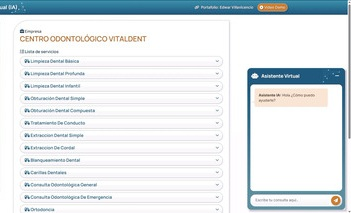
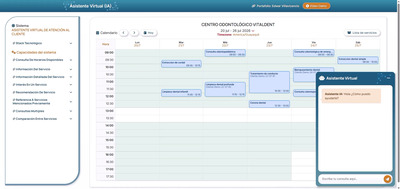
last

diff --git a/src/app/components/front/shared/last-works/last-works.component.html b/src/app/components/front/shared/last-works/last-works.component.html
@@ -12,7 +12,7 @@
       <div class="card cardWork mb-2">
         <div class="card-body p-0 relative">
           <img [src]="work.images[0] | imgSm" alt="" />
-          <div *ngIf="work?.video_url" (click)="openVideoModal(work.video_url)" class="video-icon-overlay">
+          <div *ngIf="work?.video_url" (click)="openVideoModal(work.video_url, work)" class="video-icon-overlay">
             <div class="video-icon-trigger">
               <div class="video-icon-bg"></div>
               <i class="fab fa-youtube video-icon"></i>
@@ -87,7 +87,7 @@
         <div class="carousel-item carousel-item-modal" *ngFor="let img of selected.images; let index = index"
           [class.active]="index == 0">
           <img class="d-block w-100" [src]="img" alt="" />
-          <div *ngIf="selected?.video_url && index == 0" (click)="openVideoModal(selected.video_url)"
+          <div *ngIf="selected?.video_url && index == 0" (click)="openVideoModal(selected.video_url, selected)"
             class="video-icon-overlay">
             <div class="video-icon-trigger">
               <div class="video-icon-bg"></div>
@@ -176,9 +176,29 @@
 <ng-template #modalVideo let-c="close">
   <div class="modal-header">
     <h4 id="modal-video-title" class=" text-gold m-0">Video demo</h4>
-    <button type="button" class="close" aria-label="Close" (click)="c('close')">
-      <span aria-hidden="true">&times;</span>
-    </button>
+    <div class="modal-video-header-actions">
+      <a
+        *ngIf="selected?.link"
+        [href]="selected.link"
+        target="_blank"
+        rel="noopener noreferrer"
+        class="btn btn-gold btn-sm"
+      >
+        Sitio
+      </a>
+      <a
+        *ngIf="selected?.link_demo"
+        [href]="selected.link_demo"
+        target="_blank"
+        rel="noopener noreferrer"
+        class="btn btn-gold btn-sm"
+      >
+        Probar demo
+      </a>
+      <button type="button" class="close modal-video-close" aria-label="Close" (click)="c('close')">
+        <span aria-hidden="true">&times;</span>
+      </button>
+    </div>
   </div>
   <div class="modal-body">
     <div class="video-demo-frame" *ngIf="selectedVideoEmbedUrl; else invalidVideo">

diff --git a/src/app/components/front/shared/navbar/navbar.component.css b/src/app/components/front/shared/navbar/navbar.component.css
@@ -102,7 +102,9 @@
 }
 
 .main-sm {
-    margin-top: -20px
+    margin-top: -20px;
+    right: 20px;
+    position: absolute;
 }
 
 .main-sm.navbar2 {
@@ -113,6 +115,7 @@
     .bg-cut {
         clip-path: polygon(0 0, 100% 0, 100% 60%, 0% 100%);
     }
+
     .bg-cut-white {
         clip-path: polygon(0 0, 100% 0, 100% 60%, 0% 100%);
     }
@@ -123,23 +126,29 @@
         padding: 5px 8px 5px 8px;
         font-size: 23px;
     }
+
     .bg-cut {
         clip-path: polygon(0 0, 100% 0, 100% 65%, 0% 100%);
     }
+
     .bg-cut-white {
         clip-path: polygon(0 0, 100% 0, 100% 65%, 0% 100%);
     }
+
     #navbar {
         height: 80px;
     }
+
     .logo-sap {
         height: 65%;
         margin-top: -5px;
     }
+
     .text-sap {
         height: 30px;
         margin-top: -5px;
     }
+
     #navbar-section-links {
         margin-top: -15px;
     }
@@ -155,10 +164,12 @@
     #navbar-section-links {
         width: 60%;
     }
+
     #navbar-section-logo {
         width: 60%;
         justify-content: left;
     }
+
     #navbar {
         height: 70px;
     }
@@ -248,17 +259,24 @@
     .boxChat .card {
         display: none;
     }
+
     .img-whatsapp-2 {
         display: inherit;
     }
+
     .boxChat {
         right: 25px;
         bottom: 25px;
         width: 50px;
     }
+
     .img-whatsapp-2 {
         width: 45px;
         height: 45px;
+    }
+
+    .main-sm a{
+        font-size: 15px !important;
     }
 }
 

diff --git a/src/app/components/front/shared/navbar/navbar.component.html b/src/app/components/front/shared/navbar/navbar.component.html
@@ -9,11 +9,11 @@
             <img class="text-sap" src="assets/img/default/logotipos/text-sap.png" alt="">
         </div>
         <div id="navbar-section-links">
-            <a class="" routerLink="/" routerLinkActive="active" [routerLinkActiveOptions]="{ exact: true }">Inicio</a>
-            <a class="" routerLink="/servicios-y-planes" routerLinkActive="active">Servicios y Planes</a>
-            <a class="" routerLink="/nosotros" routerLinkActive="active">Nosotros</a>
-            <a class="" routerLink="/portafolio" routerLinkActive="active">Portafolio</a>
-            <a class="" routerLink="/contactanos" routerLinkActive="active">Contáctanos</a>
+            <a class="hide-lg" routerLink="/" routerLinkActive="active" [routerLinkActiveOptions]="{ exact: true }">Inicio</a>
+            <a class="hide-lg" routerLink="/servicios-y-planes" routerLinkActive="active">Servicios y Planes</a>
+            <a class="hide-lg" routerLink="/nosotros" routerLinkActive="active">Nosotros</a>
+            <a class="hide-lg" routerLink="/portafolio" routerLinkActive="active">Portafolio</a>
+            <a class="hide-lg" routerLink="/contactanos" routerLinkActive="active">Contáctanos</a>
         </div>
         <div class="main-sm show-lg ml-auto" [ngClass]="{'navbar2':navbar2}">
             <a href="" class="" data-toggle="modal" data-target="#modalMain"> <i class="fas fa-bars"></i> </a>

diff --git a/src/app/components/front/shared/navbar-edwar/navbar-edwar.component.css b/src/app/components/front/shared/navbar-edwar/navbar-edwar.component.css
@@ -268,7 +268,7 @@
 
 @media (max-width:500px) {
     .text-logo-edwar {
-        font-size: 16px;
+        font-size: 14px;
     }
 
     #navbar a {
@@ -278,9 +278,19 @@
     }
 
     #navbar-section-links {
-        margin-left: -40px;
+        margin-left: -30px;
+    }
+
+     .logo-sap {
+        height: 55%;
+        margin-top: -5px;
+    }
+}
 
 
+@media (max-width:300px) {
+    #navbar-section-links {
+        margin-left: -20px;
     }
 }
 

diff --git a/src/app/components/front/shared/last-works/last-works.component.ts b/src/app/components/front/shared/last-works/last-works.component.ts
@@ -80,7 +80,11 @@ export class LastWorksComponent implements OnInit {
     this.modalS.open(this.modalWork, { ariaLabelledBy: 'modal-basic-title' });
   }
 
-  openVideoModal(videoUrl: string) {
+  openVideoModal(videoUrl: string, work?: any) {
+    if (work) {
+      this.selected = work;
+    }
+
     this.selectedVideoUrl = videoUrl;
     this.selectedVideoEmbedUrl = this.buildYoutubeEmbedUrl(videoUrl);
     this.modalS.open(this.modalVideo, {

diff --git a/src/app/components/front/shared/last-works/last-works.component.css b/src/app/components/front/shared/last-works/last-works.component.css
@@ -311,3 +311,15 @@
   line-height: 1.45;
    font-family: "Poppins-regular", sans-serif;
 }
+
+.modal-video-header-actions {
+  display: flex;
+  align-items: center;
+  gap: 0.5rem;
+  margin-left: auto;
+}
+
+.modal-video-close {
+  margin: -3px 0 0 !important;
+  padding: 0;
+}

diff --git a/CONTEXTO_VPS_SESION-THIS.md b/CONTEXTO_VPS_SESION-THIS.md
@@ -55,6 +55,10 @@ Tambien se quito `dist` de `.dockerignore` para que el build compilado localment
 
 ## Flujo correcto actual para desplegar sapienciaweb.com
 
+Importante:
+Antes de cualquier despliegue al VPS, hay que generar la build en local con `npm run build`.
+Si no existe `dist/sapAngular/browser`, el despliegue no queda completo porque el contenedor de `nginx` depende de esos archivos ya compilados.
+
 ### 1. Compilar localmente
 
 ```bash
